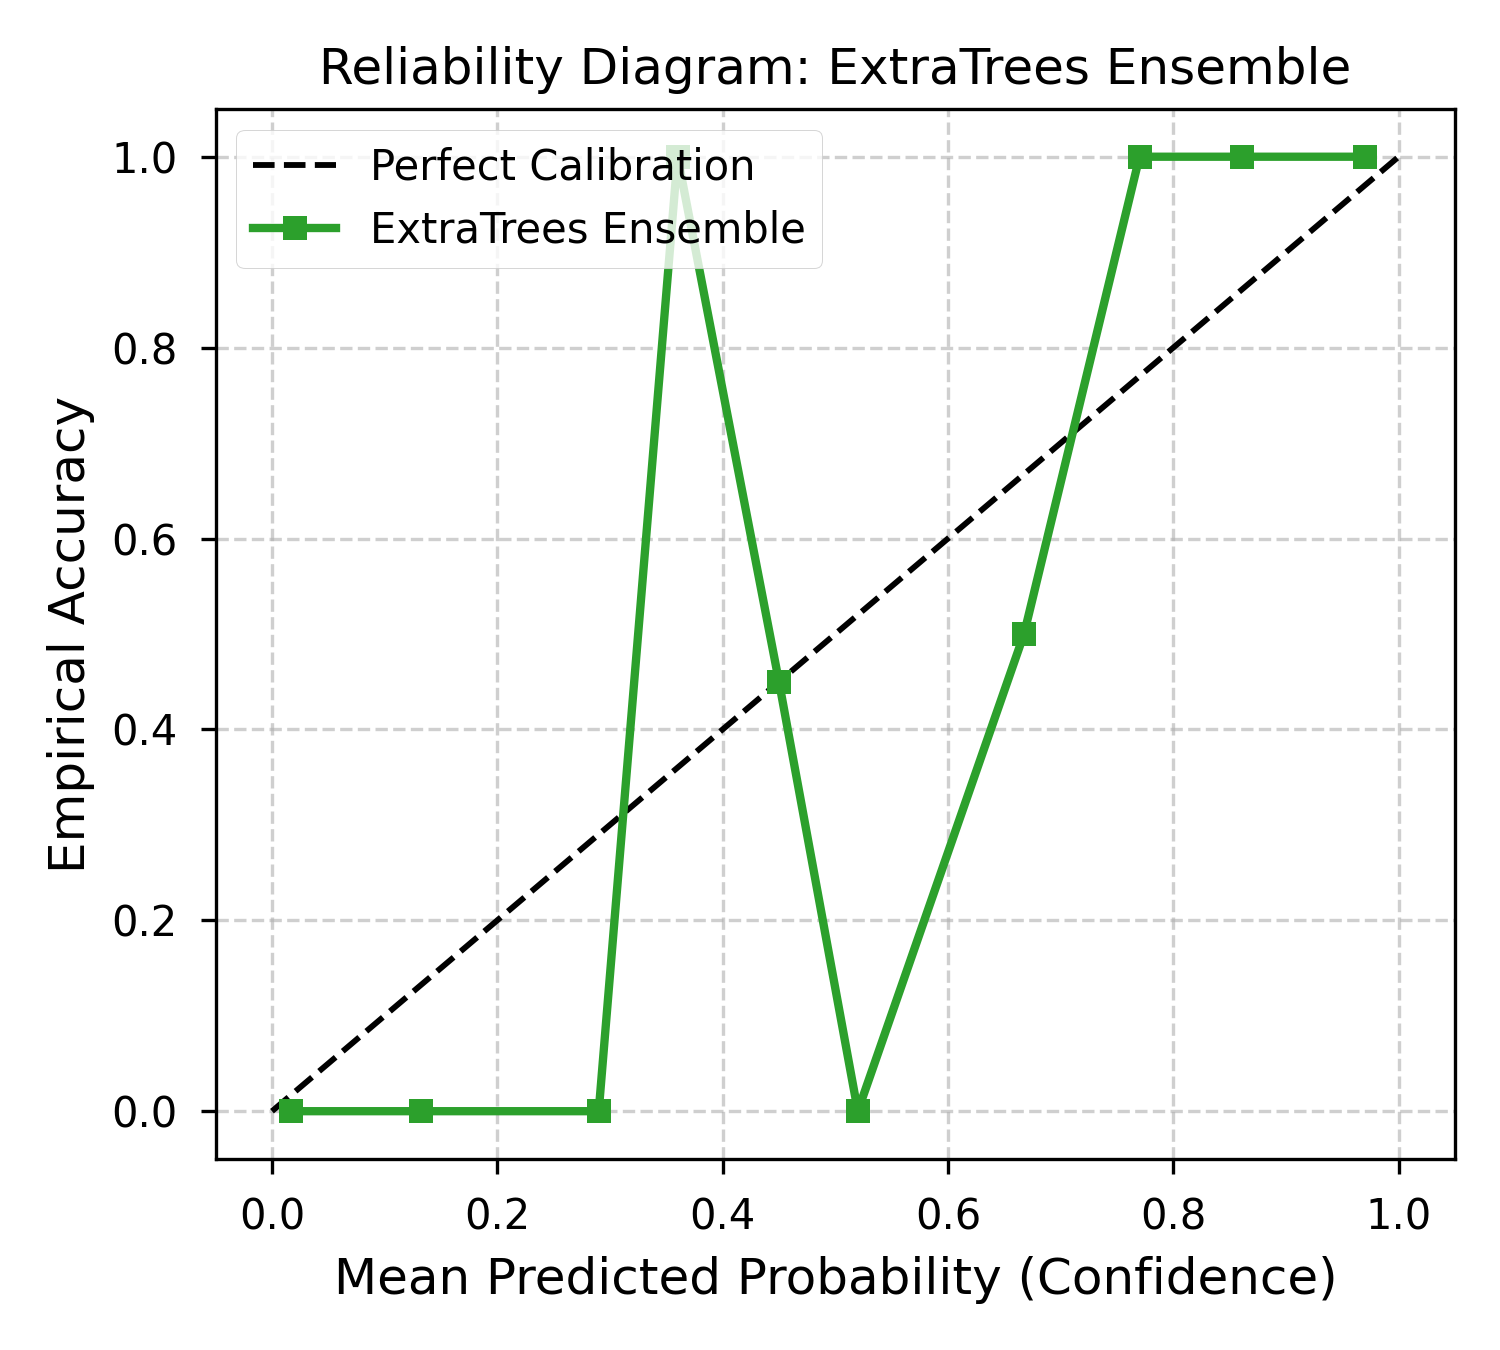
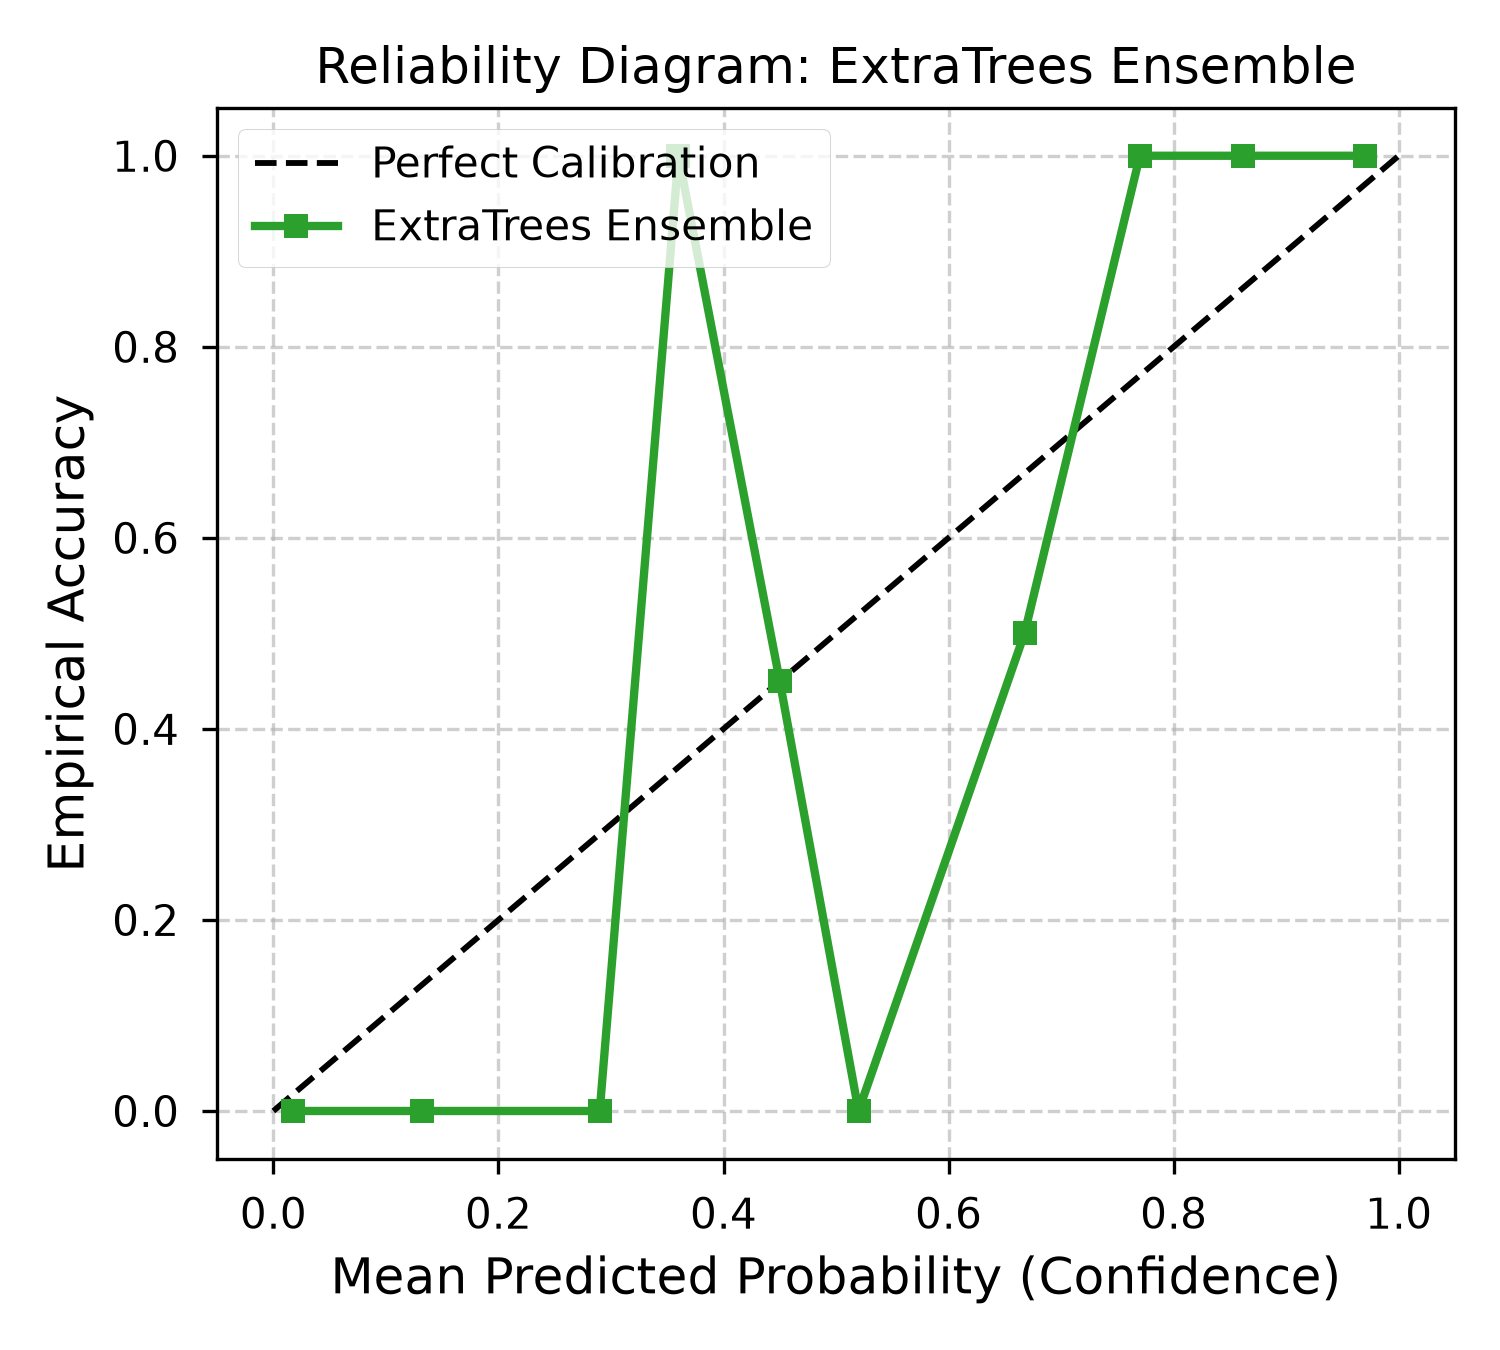
fix(dashboard): enhance cohort name resolution for short and full cohort identifiers

diff --git a/dashboard/app.py b/dashboard/app.py
@@ -67,6 +67,17 @@ class UtilitySimRequest(BaseModel):
     w_c: float = Field(default=0.334, ge=0.0, le=1.0)
 
 
+def resolve_cohort_name(c: str) -> str:
+    eng = get_engine()
+    if c in eng.cohorts:
+        return c
+    c_lower = c.strip().lower()
+    for name, spec in COHORT_SPECS.items():
+        if c_lower in [name.lower(), spec["short"].lower()]:
+            return name
+    raise HTTPException(status_code=404, detail=f"Cohort '{c}' not found. Available: {list(eng.cohorts.keys())}")
+
+
 @app.on_event("startup")
 def startup_warm_engine():
     get_engine()
@@ -98,27 +109,24 @@ def list_cohorts():
 
 @app.get("/api/overview")
 def get_overview(cohort: str = Query(...), rebuild: bool = False):
+    cname = resolve_cohort_name(cohort)
     eng = get_engine()
-    if cohort not in eng.cohorts:
-        raise HTTPException(status_code=404, detail=f"Cohort '{cohort}' not found")
-    return eng.get_cohort_overview(cohort, rebuild=rebuild)
+    return eng.get_cohort_overview(cname, rebuild=rebuild)
 
 
 @app.get("/api/patient/sample")
 def get_patient_sample(cohort: str = Query(...), idx: int = 0):
+    cname = resolve_cohort_name(cohort)
     eng = get_engine()
-    if cohort not in eng.cohorts:
-        raise HTTPException(status_code=404, detail=f"Cohort '{cohort}' not found")
-    return eng.get_patient_record(cohort, idx)
+    return eng.get_patient_record(cname, idx)
 
 
 @app.post("/api/patient/explain")
 def explain_patient(req: PatientExplainRequest):
+    cname = resolve_cohort_name(req.cohort)
     eng = get_engine()
-    if req.cohort not in eng.cohorts:
-        raise HTTPException(status_code=404, detail=f"Cohort '{req.cohort}' not found")
     return eng.explain_patient(
-        cname=req.cohort,
+        cname=cname,
         raw_features=req.raw_features,
         sample_idx=req.sample_idx,
         noise_h=req.noise_h,
@@ -129,11 +137,10 @@ def explain_patient(req: PatientExplainRequest):
 
 @app.post("/api/surface/2d")
 def get_surface_2d(req: Surface2DRequest):
+    cname = resolve_cohort_name(req.cohort)
     eng = get_engine()
-    if req.cohort not in eng.cohorts:
-        raise HTTPException(status_code=404, detail=f"Cohort '{req.cohort}' not found")
     return eng.compute_decision_surface_2d(
-        cname=req.cohort,
+        cname=cname,
         feat_x=req.feat_x,
         feat_y=req.feat_y,
         raw_features=req.raw_features,
@@ -144,19 +151,17 @@ def get_surface_2d(req: Surface2DRequest):
 
 @app.post("/api/attack/run")
 def run_attack(req: AttackRequest):
+    cname = resolve_cohort_name(req.cohort)
     eng = get_engine()
-    if req.cohort not in eng.cohorts:
-        raise HTTPException(status_code=404, detail=f"Cohort '{req.cohort}' not found")
-    return eng.run_live_attack(cname=req.cohort, attack_mode=req.attack_mode, eps_adv=req.eps_adv)
+    return eng.run_live_attack(cname=cname, attack_mode=req.attack_mode, eps_adv=req.eps_adv)
 
 
 @app.post("/api/utility/simulate")
 def simulate_utility(req: UtilitySimRequest):
+    cname = resolve_cohort_name(req.cohort)
     eng = get_engine()
-    if req.cohort not in eng.cohorts:
-        raise HTTPException(status_code=404, detail=f"Cohort '{req.cohort}' not found")
     return eng.simulate_utility_sensitivity(
-        cname=req.cohort,
+        cname=cname,
         alpha=req.alpha,
         beta=req.beta,
         w_s=req.w_s,
